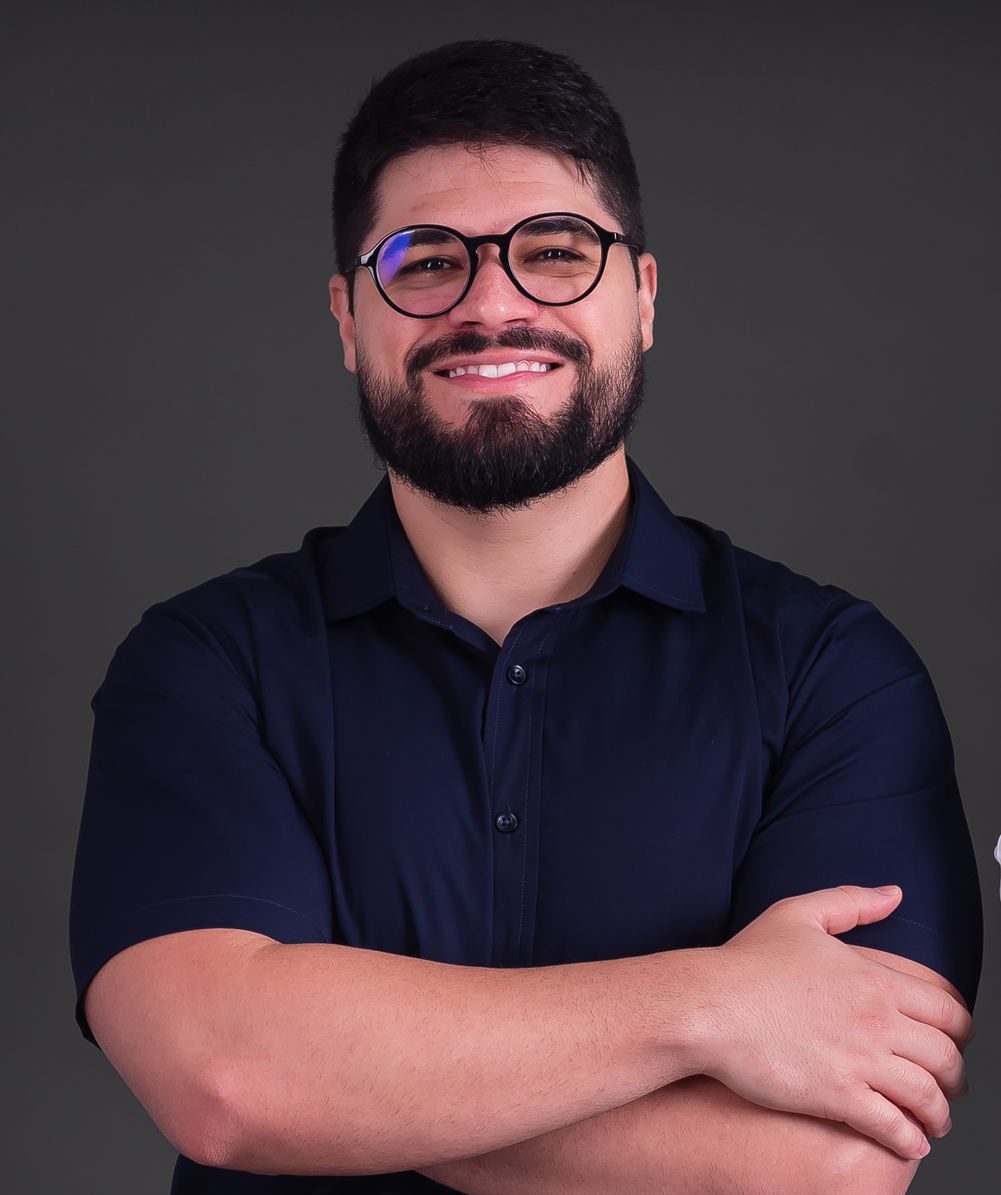
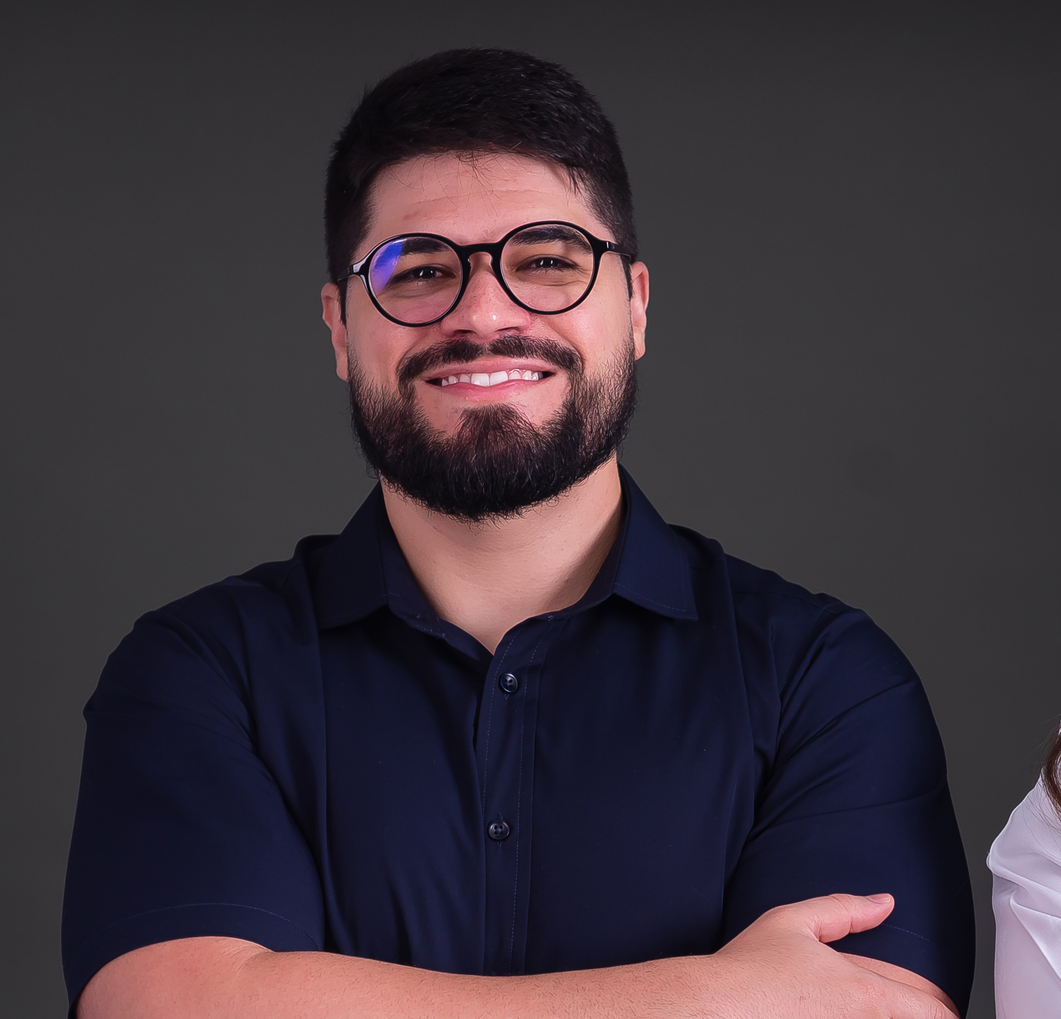
Ajustes de imagem e texto

diff --git a/src/App.css b/src/App.css
@@ -81,7 +81,6 @@ span {
 .foto-perfil {
   margin-top: 12px;
   width: 320px;
-  height: 325px;
   box-shadow: 0 0 20px rgba(79, 70, 229, 0.3);
   border-radius: 50%;
   border: 4px solid var(--vidro);
@@ -89,7 +88,6 @@ span {
 
   @media (max-width: 450px) {
     width: 280px;
-    height: 285px;
   }
 }
 
@@ -152,6 +150,7 @@ h1 {
 .sobre-paragrafo {
   text-align: left;
   font-size: 1.2rem;
+  text-align: justify;
 
   @media (max-width: 450px) {
     font-size: 1rem;

diff --git a/src/App.tsx b/src/App.tsx
@@ -1,6 +1,6 @@
 import "./App.css";
 
-import ruanImg from "./assets/images/ruanFernandes.jpg";
+import ruanImg from "./assets/images/ruanFernandes2.jpg";
 
 import tempFlatsImg from "./assets/images/tempFlatsImg.png";
 import portfGitHubImg from "./assets/images/PortfApiGitHub.png";
